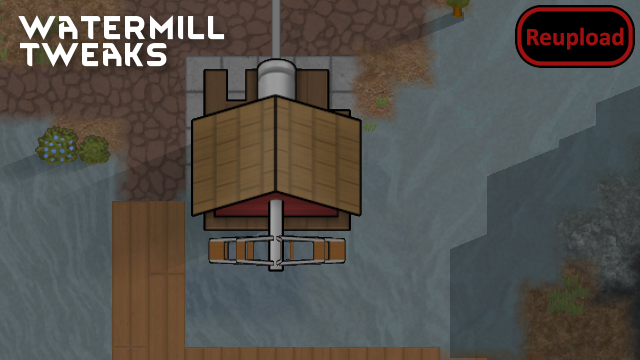
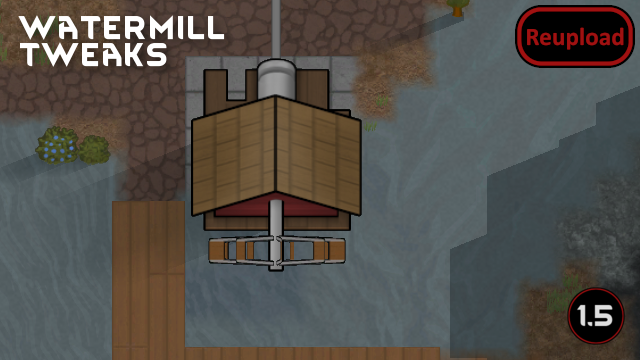
Mod updated for 1.5 and passed autotests

Changed region(s): [[0.875, 0.7944, 1.0, 0.9778]]

diff --git a/Source/WatermillTweaks/GameCondition_TurbulentWaters.cs b/Source/WatermillTweaks/GameCondition_TurbulentWaters.cs
@@ -14,8 +14,8 @@ public class GameCondition_TurbulentWaters : GameCondition
 
     private static readonly IntRange BaseTicksBetweenWatermillDamage = new IntRange(1200, 3600);
 
-    private static readonly SimpleCurve RandomDamageAmountCurve = new SimpleCurve
-    {
+    private static readonly SimpleCurve RandomDamageAmountCurve =
+    [
         new CurvePoint(0f, 5f),
         new CurvePoint(0.1f, 5f),
         new CurvePoint(0.73f, 15f),
@@ -24,9 +24,9 @@ public class GameCondition_TurbulentWaters : GameCondition
         new CurvePoint(0.88f, 25f),
         new CurvePoint(0.98f, 40f),
         new CurvePoint(1f, 40f)
-    };
+    ];
 
-    private readonly List<Building> watermillGeneratorsToAffect = new List<Building>();
+    private readonly List<Building> watermillGeneratorsToAffect = [];
 
     private int nextWatermillDamageTicks;
 

diff --git a/Source/WatermillTweaks/WatermillUtility.cs b/Source/WatermillTweaks/WatermillUtility.cs
@@ -64,14 +64,14 @@ public static class WatermillUtility
             halfPowerProductionLowTemp = LowPowerProductionDict[river];
         }
 
-        return new SimpleCurve
-        {
+        return
+        [
             new CurvePoint(Mathf.RoundToInt(halfPowerProductionLowTemp * 1.5f), 0f),
             new CurvePoint(halfPowerProductionLowTemp, 0.5f),
             new CurvePoint(FullPowerProductionLowTemp, 1f),
             new CurvePoint(FullPowerProductionHighTemp, 1f),
             new CurvePoint(HalfPowerProductionHighTemp, 0.5f),
             new CurvePoint(ZeroPowerProductionHighTemp, 0f)
-        };
+        ];
     }
 }

diff --git a/Source/WatermillTweaks/IncidentWorker_TurbulentWaters.cs b/Source/WatermillTweaks/IncidentWorker_TurbulentWaters.cs
@@ -6,15 +6,15 @@ namespace WatermillTweaks;
 
 public class IncidentWorker_TurbulentWaters : IncidentWorker_MakeGameCondition
 {
-    private static readonly SimpleCurve RainfallToAdjustedChanceFactorCurve = new SimpleCurve
-    {
+    private static readonly SimpleCurve RainfallToAdjustedChanceFactorCurve =
+    [
         new CurvePoint(0f, 0f),
         new CurvePoint(200f, 0.5f),
         new CurvePoint(1000f, 1f),
         new CurvePoint(2000f, 1f),
         new CurvePoint(3000f, 1.3f),
         new CurvePoint(5000f, 2f)
-    };
+    ];
 
     private Map map;
 

diff --git a/README.md b/README.md
@@ -54,12 +54,13 @@ As is standard with my mods: you may include this mod in a mod pack, and you may
 
 -  See if the the error persists if you just have this mod and its requirements active.
 -  If not, try adding your other mods until it happens again.
--  Post your error-log using https://steamcommunity.com/workshop/filedetails/?id=818773962]HugsLib and command Ctrl+F12
+-  Post your error-log using https://steamcommunity.com/workshop/filedetails/?id=818773962]HugsLib or the standalone https://steamcommunity.com/sharedfiles/filedetails/?id=2873415404]Uploader and command Ctrl+F12
 -  For best support, please use the Discord-channel for error-reporting.
 -  Do not report errors by making a discussion-thread, I get no notification of that.
 -  If you have the solution for a problem, please post it to the GitHub repository.
+-  Use https://github.com/RimSort/RimSort/releases/latest]RimSort to sort your mods
 
 
 
+https://steamcommunity.com/sharedfiles/filedetails/changelog/2055956298]![Image](https://img.shields.io/github/v/release/emipa606/XNDWatermillTweaks?label=latest%20version&style=plastic&color=9f1111&labelColor=black)
 
-https://steamcommunity.com/sharedfiles/filedetails/changelog/2055956298]Last updated 2023-05-16
